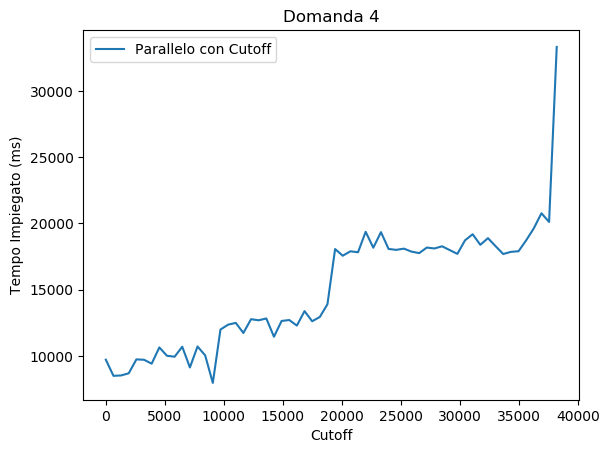
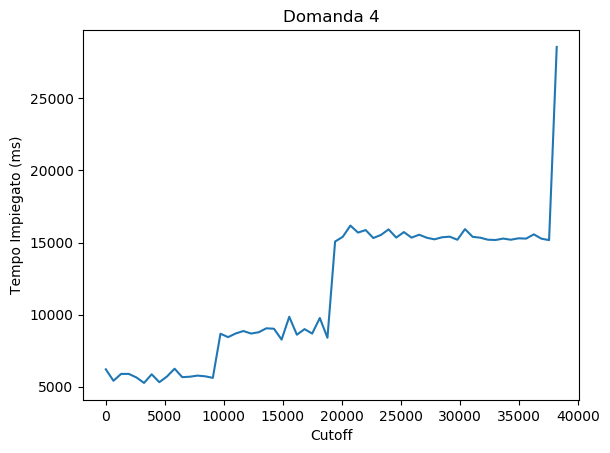
grafici aggiornati again again

diff --git a/Lab5/source/resultParser.py b/Lab5/source/resultParser.py
@@ -10,6 +10,7 @@ def resultParser():
     arrayY1 = []
     arrayY2 = []
     arrayX = []
+    speedup = []
     f.readline()
     cond = True
     while cond:
@@ -17,15 +18,25 @@ def resultParser():
         if line[0] == "DOMANDA":
             if question == 1:
                 TwoCurvesPrinter(title, "Numero di Punti", "Seriale", "Parallelo", arrayY1, arrayY2, arrayX)
+                for i in range(len(arrayX)):
+                    speedup.append(arrayY1[i]/arrayY2[i])
+                OneCurvePrint("Speedup " + str(question), "Numero di Punti", "Fattore di Speedup", speedup, arrayX)
             elif question == 2:
                 TwoCurvesPrinter(title, "Numero di Cluster", "Seriale", "Parallelo", arrayY1, arrayY2, arrayX)
+                for i in range(len(arrayX)):
+                    speedup.append(arrayY1[i]/arrayY2[i])
+                OneCurvePrint("Speedup " + str(question), "Numero di Cluster", "Fattore di Speedup", speedup, arrayX)
             elif question == 3:
                 TwoCurvesPrinter(title, "Numero di Iterazioni", "Seriale", "Parallelo", arrayY1, arrayY2, arrayX)
+                for i in range(len(arrayX)):
+                    speedup.append(arrayY1[i]/arrayY2[i])
+                OneCurvePrint("Speedup " + str(question), "Numero di Iterazioni", "Fattore di Speedup", speedup, arrayX)
             question += 1
             title = "Domanda " + str(question)
             arrayX = []
             arrayY1 = []
             arrayY2 = []
+            speedup = []
         if question == 1:
             if line[0] == "Seriale":
                 arrayY1.append(int(line[6]))
@@ -49,7 +60,7 @@ def resultParser():
                 arrayX.append(int(line[5]))
                 arrayY1.append(int(line[6]))
         if line[0] == '':
-            OneCurvePrint(title, "Cutoff", arrayY1, arrayX)
+            OneCurvePrint(title, "Cutoff", 'Tempo Impiegato (ms)', arrayY1, arrayX)
             cond = False
 
 

diff --git a/Lab5/source/Printer.py b/Lab5/source/Printer.py
@@ -11,12 +11,12 @@ def TwoCurvesPrinter(title, xlabel, label1, label2, arrayY1, arrayY2, arrayX):
     plt.savefig("../" + title, bbox_inches='tight')
     plt.close()
 
-def OneCurvePrint(title, xlabel, arrayY, arrayX):
-    plt.plot(arrayX, arrayY, label="Parallelo con Cutoff")
-    plt.ylabel('Tempo Impiegato (ms)')
+def OneCurvePrint(title, xlabel, ylabel, arrayY, arrayX):
+    plt.plot(arrayX, arrayY)
+    plt.ylabel(ylabel)
     plt.xlabel(xlabel)
     plt.title(title)
-    plt.legend()
+    #plt.legend()
     plt.savefig("../" + title, bbox_inches='tight')
     plt.close()
 
